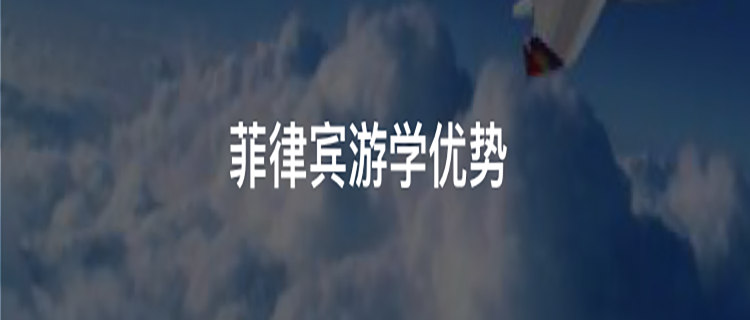
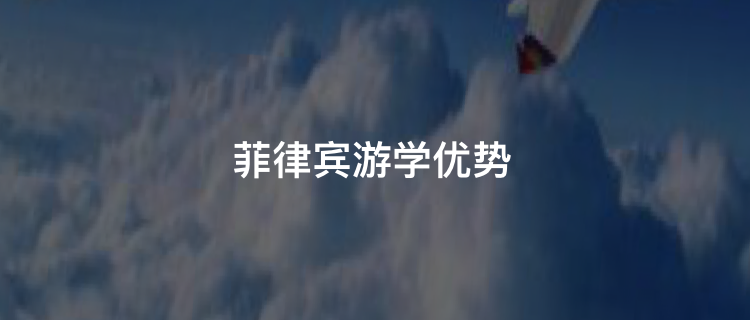
edit all

diff --git a/css/good-schools.css b/css/good-schools.css
@@ -50,7 +50,16 @@
 
 /* 页码 */
 .page{
-    text-align: center;
+    height: .35rem;
+    display: -webkit-box;
+    display: -ms-flexbox;
+    display: flex;
+    -webkit-box-align: center;
+    -ms-flex-align: center;
+    align-items: center;
+    -webkit-box-pack: center;
+    -ms-flex-pack: center;
+    justify-content: center;
     margin-bottom: .5rem;
 }
 .page a{
@@ -63,6 +72,20 @@
     display: inline-block;
     background-color: #eeeeee;
     border-radius: 50%;
+    display: inline-block;
+    margin: 0 .05rem;
+}
+.page .prev{
+    width: .35rem;
+    height: .35rem;
+    background: url(../images/page-prev.png) no-repeat;
+    background-size: 100%;
+}
+.page .next{
+    width: .35rem;
+    height: .35rem;
+    background: url(../images/page-next.png) no-repeat;
+    background-size: 100%;
 }
 .page a.active{
     color: #4a90e2;

diff --git a/good-schools.html b/good-schools.html
@@ -178,12 +178,12 @@
             </div>
             <!-- 页码 -->
             <div class="page">
-                <a href="#" class="prev">&lt;</a>
+                <a href="#" class="prev"></a>
                 <a href="#" class="active">1</a>
                 <a href="#">2</a>
                 <a href="#">3</a>
                 <a href="#">4</a>
-                <a href="#" class="next">&gt;</a>
+                <a href="#" class="next"></a>
             </div>
         </div>
 

diff --git a/index.html b/index.html
@@ -191,6 +191,9 @@
                     loop="loop" webkit-playsinline="">
                 </video>
                 <span class="playBtn"></span>
+                <div class="more">
+                    <a href="#"><img src="./images/more-video.png" /></a>
+                </div>
             </div>
             <p class="decTit">学员毕业演讲</p>
         </div>

diff --git a/css/index.css b/css/index.css
@@ -169,6 +169,16 @@
     z-index: 99;
     transform: translate(-50%,-50%);
 }
+.video-wrap .video .more{
+    width: 1.8rem;
+    height: .58rem;
+    position: absolute;
+    right: .2rem;
+    bottom: .1rem;
+}
+.video-wrap .video .more img{
+    width: 100%;
+}
 
 /* 视频居中 */
 .video-wrap .video .prism-player{

diff --git a/visa.html b/visa.html
@@ -68,7 +68,7 @@
 
         <!-- 广告图 -->
         <div class="advert-wrap">
-            <img src="./images/00adv-advantage.png"/>
+            <img src="./images/00adv-visa.png"/>
         </div>
 
         <!-- 当前位置 -->
